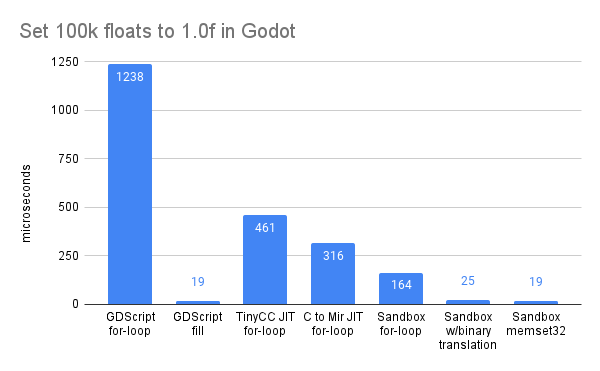
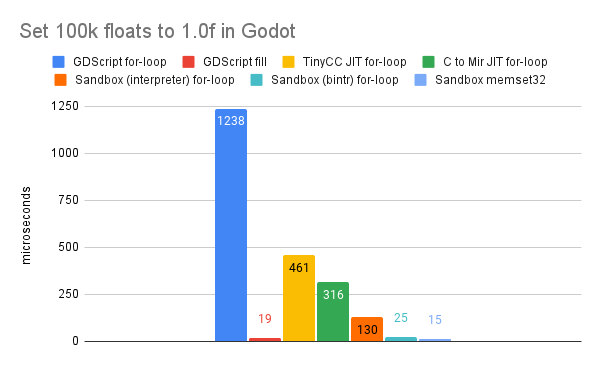
Update benchmark

diff --git a/docs/performance/performance.md b/docs/performance/performance.md
@@ -34,7 +34,7 @@ The Godot Sandbox is an extension to the [Godot Engine](https://godotengine.org/
 
 ![alt text](/img/performance/100k-floats.png)
 
-We can see that the Godot Sandbox using libriscv is 7.5x faster than GDScript at processing floats in this benchmark. 50x faster when using binary translation. A C jit-compiler called Mir was 4x faster than GDScript after being embedded into the Sandbox. TinyCC, a fast C compiler, can also be embedded into the Sandbox, and was 2.7x faster than GDScript. However, when a Godot engine helper function is used (`fill(1.0)` in this instance), GDScript can have native performance.
+We can see that the Godot Sandbox using libriscv is 10x faster than GDScript at processing floats in this particular benchmark. 50x faster when using binary translation, and more when using memset32. A C jit-compiler called Mir was 4x faster than GDScript after being embedded into the Sandbox. TinyCC, a fast C compiler, can also be embedded into the Sandbox, and was 2.7x faster than GDScript. However, when a Godot engine helper function is used (`fill(1.0)` in this instance), GDScript can have native performance.
 
 I took that as a challenge, and wrote a `memset32` function that initializes the array with and then copies increasingly larger parts until done.
 ```cpp
@@ -51,4 +51,4 @@ static inline void memset_i32(int *ptr, int value, size_t num) {
 ```
 Using that helper, we could match the Godot native-performance `Array.fill()` helper function. The reason this works is that functions like `memcpy` and `memset` are native performance in Godot Sandbox.
 
-In any case, one should prefer to use the Godot native-performance helper functions when they are available. And if not, one can always outsource it to the Godot Sandbox.
+In any case, one should prefer to use the Godot native-performance helper functions when they are available. And if not, one can always outsource work to the Godot Sandbox.
